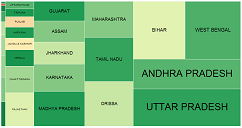
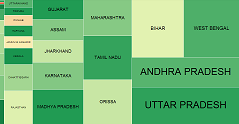
Testing - Embed function.

diff --git a/index.html b/index.html
@@ -4,8 +4,8 @@
   <link rel="stylesheet" href="css/bootstrap.min.css">
 	<link rel="shortcut icon" href="img/favicon.ico">
   <style>	
-    body { padding-top: 60px; }
-		#home, #methodology{font-size:1.1em;}
+    body { padding-top: 60px; }		 
+		#home, #state, #methodology{font-size:1.1em;}
 		#home:hover, #methodology:hover{color:#000;}
 		.nav li a{font-size:1.1em;}
 		h2 { font-size: 125%; line-height: 1.25; color: #c0504d; }
@@ -17,9 +17,9 @@
            -o-transition: all 0.3s ease-out;  /* Opera 10.50-12.00 */
               transition: all 0.3s ease-out;  /* Chrome 26, Firefox 16+, IE 10+, Opera 12.50+ */
     }
-		.logo{ width:120px; height:85px; background:#fff; border:1px solid #999;}
-		.logo:hover{ border:1px solid #222; }
-		footer{ padding:10px; background:#ddd; }
+		.logo{ width:120px; height:90px; background:#fff; border:1px solid #999; -webkit-border-radius:5px;-moz-border-radius:5px;border-radius:5px}
+		.logo:hover{ border:1px solid #08c; -webkit-box-shadow:0 1px 4px rgba(0,105,214,0.25);-moz-box-shadow:0 1px 4px rgba(0,105,214,0.25);box-shadow:0 1px 4px rgba(0,105,214,0.25);}
+		footer{ padding:10px; background:#ddd; border-top:1px solid #888;}
 		.chart, .legend { display: none;}
     .legend select { margin-right: 1em; }
 		.drilldown #chart .l1 { stroke: none; fill: #fff; }
@@ -39,9 +39,9 @@
     #datafiles { padding: 0; margin: auto; height: auto; }
     #columns{ padding-left:5px; font-family: arial; color:#444; font-size: 1em; }
     #source a { display: block; }
-    #right_container{ margin-left:180px; width:220px; font-size:0.7em; }
+    #right_container{ width:220px; font-size:0.7em; margin-top:38px;}
     #header{ font-size: 1.2em; padding:5px; background-color: black; color:white; font-weight: bold; }
-    #details{  border:1px solid gray; padding:5px; }
+    #details{ border:1px solid gray; padding:5px; }
     #details tr td{ vertical-align: top; }
     #info{ font-size: 1.1em; padding-top: 5px; line-height: 1.5em; }
     .v0 text { fill: #08c; cursor: pointer; }
@@ -51,12 +51,14 @@
 		.y1, .y2{	fill:#000; stroke:none;	text-anchor:middle;	font-size:0.8em; }
 		.horiz0, .horiz1{	fill:none; stroke:#999;	stroke-width:1;	shape-rendering:crispEdges;	}
 		.h, .v{	fill:none; stroke:#fff;	stroke-width:1;	stroke-opacity:0.6;	shape-rendering:crispEdges; }	
-		#btn{ position:relative; top:80px;margin-right:250px; }	
+		#hide_btn{ position:absolute; margin-left:50px; margin-top:60px;}	
 		.feature{ fill:#F5F5F0; stroke:#000; stroke-width:0.2px;  }
-		.feature.active {	fill:#ddd; }
+		.feature.active {	fill:#ddd;	}
 		.state_bubbles{ fill: none; stroke:#888; }	
-		.state_bubbles:hover{ stroke:#444; }
-		</style>
+
+		.state_bubbles:hover{ stroke:#444; }		
+		#copy_btn{ border-top-right-radius:4px; border-bottom-right-radius:4px;}
+	</style>
   <link rel="stylesheet" href="css/bootstrap-responsive.min.css">
 </head><body>
 <div class="navbar navbar-fixed-top">
@@ -65,7 +67,8 @@
       <a id="home" class="brand" href="#"><span>Home</span></a>									
       <ul class="nav"></ul>
 
-			<a id="methodology" class="brand" href="#"><span>Methodology & Disclaimer</span></a>
+			<a id="state" class="brand" href="#"><span>State</span></a>
+			<a id="methodology" class="brand" href="#"><span>Methodology</span></a>
 			<span style="margin-top:10px; font-size:1.2em;" class="pull-right"><a href="http://www.indiawaterportal.org/topics/rural-sanitation" target="_blank">State of Sanitation</a> brought to you by <a href="http://arghyam.org/" target="_blank">Arghyam</a></span>
     </div>
   </div>
@@ -74,10 +77,16 @@
 	<h2 id="menu"></h2>
   <h1 id="title"></h1>
 	<h3 id="subtitle"></h3>
-  <p id="exp_text"></span></p>
-	<div id="btn"><button id="hide_text" class="btn pull-right">Show / Hide State names</button></div>
+  <p id="exp_text"></p>
+
+	<div  class="btn-group" style="margin-bottom:15px;">		
+			<button id="emb_btn" class="btn ">Embed</button>
+			<input id="emb_text" style="width:300px; background:#fff; cursor:text;" class="btn"/>
+			<button id="copy_btn" class="btn">Copy</button>
+			<input id="status" class="span2" style="border:none; margin-left:10px; color:red;" >&nbsp;</input>	
+	</div>
 	<div>
-		<div id="legend_cont" style="width:1200px; margin-left:-1px; padding-bottom:10px;" class="span12">
+		<div id="legend_cont" style="width:1200px;margin-left:-1px; padding-bottom:10px;" class="span12">
 			<div class="legend treemap span5" data-story="treemap" style="margin-left:-1px;"></div>
 			<div class="legend stack span5" data-story="stack" style="margin-left:-1px;"></div>
 			<div class="legend scatter span5" data-story="scatter" style="margin-left:-1px;"></div>
@@ -88,10 +97,13 @@
 				<label for="copy_title">Ctrl+c to Copy text</label>
 				<input type="text" id="copy_title" placeholder="Hover text">
 			</div>			
-		</div>	
+		</div>
+		<div id="hide_btn" class="span9"><button id="hide_text" class="btn pull-right">Show / Hide State names</button></div>
 	</div>
   <div style="margin-left:-2px;" class="span8"><svg id="chart" width="960" height="500"></svg></div>
-	<div id="right_container" class="span2"><div id="header"></div><div id="details"></div><div id="info"></div></div>
+	<div id="right_container" class="pull-right span2">		
+		<div id="header"></div><div id="details"></div><div id="info"></div>
+	</div>
 	<div class="clear:both;"></div>
    <div id="gradient_cont" class="span12" style="margin-left:-2px;">
 		<svg id="gradient" width="956" height="30">
@@ -114,9 +126,9 @@
 		</svg>
   </div>  
   <br><br>
-  <div id="download_cont" style="margin:0;"class="span12">
+  <div id="download_cont" style="margin:0;" class="span12">
 		<br>
-		<div style="float:left" ><strong>Download</strong>:
+		<div style="float:left"><strong>Download</strong>:
 				<a href="#" id="data">full dataset</a> |      
 				<a href="glossary/glossary_of_terms.xlsx">Glossary of terms</a>
 		</div>
@@ -236,36 +248,39 @@
 
 		<h4>Disclaimer:</h4>
 		<p>We are providing the data here with the understanding that we are not representing it to be accurate, correct or complete for your intended purpose. Please see India Water Portal's full <a href="http://www.indiawaterportal.org/disclaimer" target="_blank">disclaimer</a>.</p>
+		<!--<div class="dipity_embed" style="width:600px"><iframe width="600" height="400" src="http://www.dipity.com/arghyam/Rural-Sanitation-in-India/?mode=embed&z=0#tl" style="border:1px solid #CCC;"></iframe><p style="margin:0;font-family:Arial,sans;font-size:13px;text-align:center"><a href="http://www.dipity.com/arghyam/Rural-Sanitation-in-India/">Rural Sanitation in India</a> on <a href="http://www.dipity.com/" />Dipity</a>.</p></div>-->
 	</div>		
 </div>
 <br>
 <footer>
-	<div class="container">
+	<div class="container" >
 		<div class="span2" style="margin-left:0px;">
 			<a href="http://www.indiawaterportal.org/topics/rural-sanitation" target="_blank">
-				<div class="logo" style="padding:0px 10px 25px 30px;">
-					<span><img src="img/sos_logo.png" width="100" height="100"></span>
+
+				<div class="logo">
+					<span><img style="margin-left:18px;" src="img/sos_logo.png" width="80" height="80"></span>
 				</div>
 			</a>	
 		</div>
 		<div class="span1" style="margin-left:230px;"></div>	
 		<div class="span2">
 			<a href="http://www.arghyam.org" target="_blank">
-				<div class="logo" style="padding:10px 20px;">
-					<span><img src="img/arghyam_logo.jpg" width="120" height="120"></span>
+
+				<div class="logo">
+					<span><img style="margin:8px;" src="img/arghyam_logo.jpg" width="100" height="80"></span>
 				</div>
 			</a>	
 		</div>	
 		<div class="span1" style="margin-left:230px;"></div>
-		<div class="span2"><div style="margin-left:30px; font-size:1.2em;">Powered by:</div>
+		<div class="span2"><div style="margin-left:20px; font-size:1em;">Powered by:</div>
 			<a href="http://www.gramener.com" target="_blank">
-				<div class="logo" style="padding:25px 15px 10px 15px; height:45px;" >
-					<span><img src="img/gramener_logo.jpg" width="180" height="150"></span>
+				<div class="logo" style="width:120px; height:70px;">
+					<span><img style="margin:25px 10px 10px 10px;	" src="img/gramener_logo.jpg" width="100" height="80"></span>
 				</div>
 			</a>
 		</div>	
 	</div>
-<footer>	
+</footer>	
 <script src="js/jquery.min.js"></script>
 <script>
 	$(window).on('load resize', function() {
@@ -293,6 +308,7 @@
 	}); 
 </script>
 <script src="js/underscore-min.js"></script>
+<script src="js/jquery.zclip.min.js"></script>
 <script src="js/d3.v2.min.js"></script>
 <script src="js/topojson.v0.min.js"></script>
 <script src="js/bootstrap.min.js"></script>

diff --git a/js/jquery.zclip.min.js b/js/jquery.zclip.min.js
@@ -1,0 +1,12 @@
+/*
+ * zClip :: jQuery ZeroClipboard v1.1.1
+ * http://steamdev.com/zclip
+ *
+ * Copyright 2011, SteamDev
+ * Released under the MIT license.
+ * http://www.opensource.org/licenses/mit-license.php
+ *
+ * Date: Wed Jun 01, 2011
+ */
+
+(function(a){a.fn.zclip=function(c){if(typeof c=="object"&&!c.length){var b=a.extend({path:"ZeroClipboard.swf",copy:null,beforeCopy:null,afterCopy:null,clickAfter:true,setHandCursor:true,setCSSEffects:true},c);return this.each(function(){var e=a(this);if(e.is(":visible")&&(typeof b.copy=="string"||a.isFunction(b.copy))){ZeroClipboard.setMoviePath(b.path);var d=new ZeroClipboard.Client();if(a.isFunction(b.copy)){e.bind("zClip_copy",b.copy)}if(a.isFunction(b.beforeCopy)){e.bind("zClip_beforeCopy",b.beforeCopy)}if(a.isFunction(b.afterCopy)){e.bind("zClip_afterCopy",b.afterCopy)}d.setHandCursor(b.setHandCursor);d.setCSSEffects(b.setCSSEffects);d.addEventListener("mouseOver",function(f){e.trigger("mouseenter")});d.addEventListener("mouseOut",function(f){e.trigger("mouseleave")});d.addEventListener("mouseDown",function(f){e.trigger("mousedown");if(!a.isFunction(b.copy)){d.setText(b.copy)}else{d.setText(e.triggerHandler("zClip_copy"))}if(a.isFunction(b.beforeCopy)){e.trigger("zClip_beforeCopy")}});d.addEventListener("complete",function(f,g){if(a.isFunction(b.afterCopy)){e.trigger("zClip_afterCopy")}else{if(g.length>500){g=g.substr(0,500)+"...\n\n("+(g.length-500)+" characters not shown)"}e.removeClass("hover");alert("Copied text to clipboard:\n\n "+g)}if(b.clickAfter){e.trigger("click")}});d.glue(e[0],e.parent()[0]);a(window).bind("load resize",function(){d.reposition()})}})}else{if(typeof c=="string"){return this.each(function(){var f=a(this);c=c.toLowerCase();var e=f.data("zclipId");var d=a("#"+e+".zclip");if(c=="remove"){d.remove();f.removeClass("active hover")}else{if(c=="hide"){d.hide();f.removeClass("active hover")}else{if(c=="show"){d.show()}}}})}}}})(jQuery);var ZeroClipboard={version:"1.0.7",clients:{},moviePath:"ZeroClipboard.swf",nextId:1,$:function(a){if(typeof(a)=="string"){a=document.getElementById(a)}if(!a.addClass){a.hide=function(){this.style.display="none"};a.show=function(){this.style.display=""};a.addClass=function(b){this.removeClass(b);this.className+=" "+b};a.removeClass=function(d){var e=this.className.split(/\s+/);var b=-1;for(var c=0;c<e.length;c++){if(e[c]==d){b=c;c=e.length}}if(b>-1){e.splice(b,1);this.className=e.join(" ")}return this};a.hasClass=function(b){return !!this.className.match(new RegExp("\\s*"+b+"\\s*"))}}return a},setMoviePath:function(a){this.moviePath=a},dispatch:function(d,b,c){var a=this.clients[d];if(a){a.receiveEvent(b,c)}},register:function(b,a){this.clients[b]=a},getDOMObjectPosition:function(c,a){var b={left:0,top:0,width:c.width?c.width:c.offsetWidth,height:c.height?c.height:c.offsetHeight};if(c&&(c!=a)){b.left+=c.offsetLeft;b.top+=c.offsetTop}return b},Client:function(a){this.handlers={};this.id=ZeroClipboard.nextId++;this.movieId="ZeroClipboardMovie_"+this.id;ZeroClipboard.register(this.id,this);if(a){this.glue(a)}}};ZeroClipboard.Client.prototype={id:0,ready:false,movie:null,clipText:"",handCursorEnabled:true,cssEffects:true,handlers:null,glue:function(d,b,e){this.domElement=ZeroClipboard.$(d);var f=99;if(this.domElement.style.zIndex){f=parseInt(this.domElement.style.zIndex,10)+1}if(typeof(b)=="string"){b=ZeroClipboard.$(b)}else{if(typeof(b)=="undefined"){b=document.getElementsByTagName("body")[0]}}var c=ZeroClipboard.getDOMObjectPosition(this.domElement,b);this.div=document.createElement("div");this.div.className="zclip";this.div.id="zclip-"+this.movieId;$(this.domElement).data("zclipId","zclip-"+this.movieId);var a=this.div.style;a.position="absolute";a.left=""+c.left+"px";a.top=""+c.top+"px";a.width=""+c.width+"px";a.height=""+c.height+"px";a.zIndex=f;if(typeof(e)=="object"){for(addedStyle in e){a[addedStyle]=e[addedStyle]}}b.appendChild(this.div);this.div.innerHTML=this.getHTML(c.width,c.height)},getHTML:function(d,a){var c="";var b="id="+this.id+"&width="+d+"&height="+a;if(navigator.userAgent.match(/MSIE/)){var e=location.href.match(/^https/i)?"https://":"http://";c+='<object classid="clsid:d27cdb6e-ae6d-11cf-96b8-444553540000" codebase="'+e+'download.macromedia.com/pub/shockwave/cabs/flash/swflash.cab#version=9,0,0,0" width="'+d+'" height="'+a+'" id="'+this.movieId+'" align="middle"><param name="allowScriptAccess" value="always" /><param name="allowFullScreen" value="false" /><param name="movie" value="'+ZeroClipboard.moviePath+'" /><param name="loop" value="false" /><param name="menu" value="false" /><param name="quality" value="best" /><param name="bgcolor" value="#ffffff" /><param name="flashvars" value="'+b+'"/><param name="wmode" value="transparent"/></object>'}else{c+='<embed id="'+this.movieId+'" src="'+ZeroClipboard.moviePath+'" loop="false" menu="false" quality="best" bgcolor="#ffffff" width="'+d+'" height="'+a+'" name="'+this.movieId+'" align="middle" allowScriptAccess="always" allowFullScreen="false" type="application/x-shockwave-flash" pluginspage="http://www.macromedia.com/go/getflashplayer" flashvars="'+b+'" wmode="transparent" />'}return c},hide:function(){if(this.div){this.div.style.left="-2000px"}},show:function(){this.reposition()},destroy:function(){if(this.domElement&&this.div){this.hide();this.div.innerHTML="";var a=document.getElementsByTagName("body")[0];try{a.removeChild(this.div)}catch(b){}this.domElement=null;this.div=null}},reposition:function(c){if(c){this.domElement=ZeroClipboard.$(c);if(!this.domElement){this.hide()}}if(this.domElement&&this.div){var b=ZeroClipboard.getDOMObjectPosition(this.domElement);var a=this.div.style;a.left=""+b.left+"px";a.top=""+b.top+"px"}},setText:function(a){this.clipText=a;if(this.ready){this.movie.setText(a)}},addEventListener:function(a,b){a=a.toString().toLowerCase().replace(/^on/,"");if(!this.handlers[a]){this.handlers[a]=[]}this.handlers[a].push(b)},setHandCursor:function(a){this.handCursorEnabled=a;if(this.ready){this.movie.setHandCursor(a)}},setCSSEffects:function(a){this.cssEffects=!!a},receiveEvent:function(d,f){d=d.toString().toLowerCase().replace(/^on/,"");switch(d){case"load":this.movie=document.getElementById(this.movieId);if(!this.movie){var c=this;setTimeout(function(){c.receiveEvent("load",null)},1);return}if(!this.ready&&navigator.userAgent.match(/Firefox/)&&navigator.userAgent.match(/Windows/)){var c=this;setTimeout(function(){c.receiveEvent("load",null)},100);this.ready=true;return}this.ready=true;try{this.movie.setText(this.clipText)}catch(h){}try{this.movie.setHandCursor(this.handCursorEnabled)}catch(h){}break;case"mouseover":if(this.domElement&&this.cssEffects){this.domElement.addClass("hover");if(this.recoverActive){this.domElement.addClass("active")}}break;case"mouseout":if(this.domElement&&this.cssEffects){this.recoverActive=false;if(this.domElement.hasClass("active")){this.domElement.removeClass("active");this.recoverActive=true}this.domElement.removeClass("hover")}break;case"mousedown":if(this.domElement&&this.cssEffects){this.domElement.addClass("active")}break;case"mouseup":if(this.domElement&&this.cssEffects){this.domElement.removeClass("active");this.recoverActive=false}break}if(this.handlers[d]){for(var b=0,a=this.handlers[d].length;b<a;b++){var g=this.handlers[d][b];if(typeof(g)=="function"){g(this,f)}else{if((typeof(g)=="object")&&(g.length==2)){g[0][g[1]](this,f)}else{if(typeof(g)=="string"){window[g](this,f)}}}}}}};

diff --git a/js/main.js b/js/main.js
@@ -130,6 +130,8 @@ function draw(story) {
 	if (d3.event) {
     d3.event.preventDefault();		
   }
+	$('#emb_text').val('');
+	$('#status').val('');
 	d3.select('#about').style('display', 'none');
 	d3.select('#method').style('display', 'none');
 	d3.select('#demo').style('display', 'none');		
@@ -192,7 +194,7 @@ function draw(story) {
 		      .html(function(d){ return d.split('$').join('&nbsp &nbsp'); });
 		cont.append('p').append('a').text('Click on the ppt for more help with using the visualisation.')
 					.style('cursor', 'pointer')
-			    .on('click', function(){ window.scrollTo(0, document.body.scrollHeight) ;});
+			    .on('click', function(){ window.scrollTo(0, document.body.scrollHeight) ;});		
 	}
 	d3.select('#slideshare').style('display', 'none');
 	if(story.slideshare){
@@ -484,7 +486,7 @@ function draw_scatter(story) {
 						return d.District_Name == subgroup ? true : false;
 			  });
 			d3.selectAll('.tooltip').remove();
-			var details = svg.select('.district[data-r="' + subgroup + '"]').text();
+			var details = svg.select('.district[data-q="' + group + '"][data-r="' + subgroup + '"]').text();
 			$('#copy_title').val(details);
 			$('#copy_title').on('mouseover', function(){ $(this).select(); });	
       $('.mark').tooltip({ title:function(){ return $('.mark title').text(); }, trigger:'focus', container:'body' }).tooltip('show');						
@@ -912,14 +914,38 @@ function initchart(story, data) {
   return _.filter(data, story.filter);
 }
 console.log(window.location.search);
+d3.select('#emb_btn').on('click', function(){			
+	var host_temp = window.location.href;
+	var embed = host_temp.split('#').join('embed=1#');
+	$('#emb_text').val('<iframe src="'+embed+'" width="960" height="610" frameborder="0" marginwidth="0" marginheight="0" scrolling="no"'
+	+' style="padding:0px 0px 0px 5px;border:1px solid #CCC;border-width:1px;" ></iframe>').select();	
+});
+$('#copy_btn').on('click', function(e){ 
+	e.preventDefault();
+}).each(function(){
+	$(this).zclip({
+    path: "js/ZeroClipboard.swf",
+    copy: function(){
+			return $('#emb_text').val();
+		},		
+		afterCopy: function(){
+			if($('#emb_text').val()){ 
+				$('#status').val('Copied!').fadeIn(200).delay(1500).fadeOut(250);			
+			}else{
+				$('#status').val('Click Embed button!').fadeIn(200).delay(1500).fadeOut(250);			
+			}
+		}
+	});	
+});	
 if(window.location.search == '?embed=1'){
 	d3.select('body').style('padding', '0px');
-	d3.select('#visual').style('margin', '0px').style('padding', '0px');
+	d3.selectAll('#visual, #btn').style('margin', '0px').style('padding', '0px');
 	d3.select('#legend_cont').style('width', '960px');
 	d3.selectAll('.legend').style('width', '475px').style('margin-left', '0px').style('padding-left','5px');
 	d3.select('#data_cont').style('width', '375px');
 	d3.select('svg').style('border', 'none');
-	d3.selectAll('.navbar-inner, #menu, #title, #subtitle, #exp_text, #copy_cont, #right_container, #details, #info, #slideshare, #download_cont, #source_cont, #source, footer').remove();	
+	d3.select('#hide_btn').style('margin-left', '382px');
+	d3.selectAll('.navbar-inner, #menu, #title, #subtitle, #exp_text, #copy_cont,.btn-group, #right_container, #details, #info, #slideshare, #download_cont, #source_cont, #source, footer').remove();	
 }
 function position() {
   this.transition()
